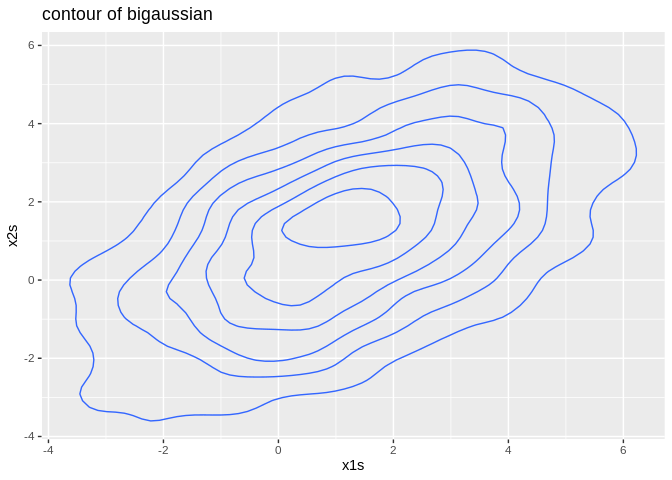
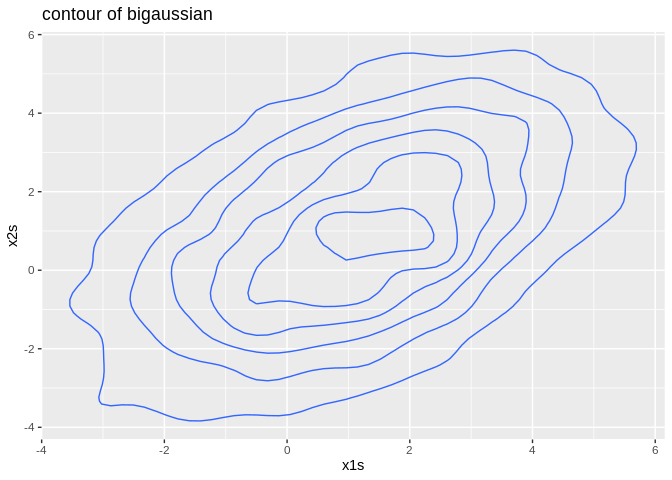
final version

diff --git a/proj2.md b/proj2.md
@@ -6,8 +6,10 @@ Due by 11:59 pm on Friday, December 6th.
 
 ## Question 1
 
-define a density function of bivariate gaussian,a random-walk MCMC
-algorithm is used to simulates observations from this density
+first,define a density function of bivariate gaussian, then a
+random-walk MCMC algorithm is used to simulates observations from this
+density. And there’s a contour plot of this bivariate density function
+in the bottom.
 
 ``` r
 library(ggplot2)
@@ -16,7 +18,8 @@ dbigaussian <- function(x1, x2) {
   sigma <- matrix(c(1, 0.5, 0.5, 1), 2, 2)
   u <- c(1, 1)
   return(as.numeric(exp(
-    -0.5 * t(c(x1, x2) - u) %*% solve(sigma) %*% (c(x1, x2) - u) / (2 * pi) /sqrt(0.75)
+    -0.5 * t(c(x1, x2) - u) %*% solve(sigma) %*% (c(x1, x2) - u) / (2 * pi) /
+      sqrt(0.75)
   )))
 }
 n <- 10000 #number of samples to draw
@@ -50,9 +53,9 @@ ggplot(df, aes(x = x1s, y = x2s)) +
 
 ### 2.1
 
-variance of asmple is 1.132592,variance of Student-t(20) is 1.11, they
-are pretty close,which means those samples are genuine draws from the
-correct Student-t(20) distribution.
+The variance of samples is 1.132592, the variance of Student-t(20) is
+1.11, they are pretty close,which support the statement that those
+samples are genuine draws from the correct Student-t(20) distribution.
 
 ``` r
 set.seed(2)
@@ -74,13 +77,13 @@ for (i in 2:n) {
   }
 }
 ys <- ys[-(1:100)]
-print(var(ys))
+print(var(ys))#variance of sample
 ```
 
     ## [1] 1.132592
 
 ``` r
-print(20 / 18)
+print(20 / 18)#variance of Student-t(20)
 ```
 
     ## [1] 1.111111
@@ -89,9 +92,11 @@ print(20 / 18)
 
 the sample variance(which is 2.758434) is not close nor equal to
 student-t(3) theoretical variance(which is 3), one possible explanation
-is that convergence dosen’t happen before the 10000th sample or happened
-really late, for example, untill the 7000th sample this MCMC converged,
-another explanation is that this MCMC’s convergence is not Student-t(3)
+is that this MCMC’s convergence(statinary distribution) is not
+Student-t(3). Another explanation is that stationary dosen’t happen
+before the 10000th sample or happened really late, for example, untill
+the 7000th sample this MCMC converged, in this situation,the burn-in
+B(which is 100) is too small.
 
 ``` r
 set.seed(2)
@@ -105,7 +110,7 @@ ys <- numeric(n)
 ys[1] <- 0 #initial value
 for (i in 2:n) {
   y <- ys[i - 1] + rnorm(1, 0, 1)
-  a <- min(1, dstudentt(y) / dstudentt(ys[i - 1]))
+  a <-min(1, dstudentt(y) / dstudentt(ys[i - 1]))#implement matropolis hastings method
   if (runif(1) < a) {
     ys[i] <- y
   } else {
@@ -113,13 +118,13 @@ for (i in 2:n) {
   }
 }
 ys <- ys[-(1:100)]
-print(var(ys))
+print(var(ys))#variance of sample
 ```
 
     ## [1] 2.758434
 
 ``` r
-print(3 / 1)
+print(3 / 1)#variance of Student-t(3)
 ```
 
     ## [1] 3
@@ -128,35 +133,195 @@ print(3 / 1)
 
 ``` r
 y = scan("data/eventtimes.csv", sep=",")
-likli<-function(k){
-  n<-100
-  lamda<-2
-  multi<-1
-  for (i in 1:n){
-    multi<-multi*y[i]
-  }
-  sumup<-0
-  for (j in 1:n){
-    sumup<-sumup + (y[i])^k
-  }
-  return(
-    exp(-sumup/(lamda^k))*(multi^(k-1))*(k^n)/(lamda^(n*k))
-  )
-}
 ```
 
 ### 3.1
 
+define the loglikelihood function
+
+``` r
+loglikeli <- function(k){
+  n <- 100
+  lambda <- 2
+  sumup1 <- 0
+  for (i in 1:n){
+    sumup1 <- sumup1 + (y[i]^k)
+  }#calculate the sum of yi with power of k
+  sumup2 <- 0
+  for (j in 1:n){
+    sumup2 <- sumup2 + log(y[j])
+  }#calculate the sum of ln(yi) 
+  return(
+    n*log(k) + (k-1)*sumup2 - (sumup1/lambda^k) - (n*k*log(lambda))#the expression of log likelyhood function of weibull distribution
+  )
+}
+```
+
 ### 3.2
+
+Use optim(), found the maximum of loglikelihood function is reached when
+k equals to 4.588589, which means the most likelihood estimator of k is
+4.588589
+
+``` r
+optim(1,loglikeli,control = list(fnscale = -1),method = "CG")
+```
+
+    ## $par
+    ## [1] 4.588589
+    ## 
+    ## $value
+    ## [1] -60.75909
+    ## 
+    ## $counts
+    ## function gradient 
+    ##       29       10 
+    ## 
+    ## $convergence
+    ## [1] 0
+    ## 
+    ## $message
+    ## NULL
 
 ### 3.3
 
+The probability of there being more than 1.5 weeks until the next time
+that rain occurs is 0.7656637
+
+``` r
+pweibull(1.5,4.59,2,lower.tail = FALSE)
+```
+
+    ## [1] 0.7656637
+
 ### 3.4
+
+Define the posterior function by multiply the likelihood and prior first
+and then logrithmn them all.
+
+``` r
+dposte <- function(k) {
+  alpha <- 1
+  beta <- 1
+  if (k <= 0) {
+    return(-10000)
+  }
+  return(log((
+    beta ^ alpha / gamma(alpha) * k ^ (alpha - 1) * exp(-beta * k)) *exp(loglikeli(k))))
+}
+```
 
 ### 3.5
 
+The mean of Matropolis-Hasting is 4.476628,which is pretty close to the
+MLE, the median is 4.462002, and the standard deviation is 0.3381027
+
+``` r
+set.seed(200)
+n <- 10000 #number of samples to draw
+ys1 <- numeric(n)
+ys1[1] <- 1 #initial value
+for (i in 2:n) {
+  newy <- ys1[i - 1] + rnorm(1, 0, 1)
+  a <-min(1, exp(dposte(newy)) / exp(dposte(ys1[i - 1])))#implement MP MCMC method
+  if (runif(1) < a) {
+    ys1[i] <- newy
+  } else {
+    ys1[i] <- ys1[i - 1]
+  }
+}
+ys1complete <- ys1#preserve 10000 values to draw a plot in 3.7
+ys1 <- ys1[-(1:100)]
+mean(ys1)
+```
+
+    ## [1] 4.476628
+
+``` r
+median(ys1)
+```
+
+    ## [1] 4.462002
+
+``` r
+sd(ys1)
+```
+
+    ## [1] 0.3381027
+
 ### 3.6
+
+First, I calculate the corresponding probability based on 10000
+sampleling values in 3.5,then I calculate the standard deviation of
+those 10000 prediction probabilities.
+
+``` r
+p <- numeric(length(ys1))
+for (i in 1:length(ys1)) {
+  p[i] <- pweibull(1.5, ys1[i], 2, lower.tail = FALSE)
+}
+sd(p)
+```
+
+    ## [1] 0.02032476
 
 ### 3.7
 
+According to the Laplace approximation , I approximated the posterior
+distribution by a normal distribution N(khat,sigma^2)and generated 10000
+samples from this distribution,khat is the value which maximise the
+posterior,sigma^2 equals to 1 divided by the negtive second derivative
+of the log-posterior evaluated at khat
+
+``` r
+optim(1,dposte,control = list(fnscale = -1),,method = "CG",hessian = TRUE)
+```
+
+    ## $par
+    ## [1] 4.470924
+    ## 
+    ## $value
+    ## [1] -65.2886
+    ## 
+    ## $counts
+    ## function gradient 
+    ##       29       10 
+    ## 
+    ## $convergence
+    ## [1] 0
+    ## 
+    ## $message
+    ## NULL
+    ## 
+    ## $hessian
+    ##           [,1]
+    ## [1,] -8.608074
+
+``` r
+khat = 4.470924
+sigma2 = -1/-8.608074
+ys2 <- rnorm(10000,mean = khat,sd = sqrt(sigma2))
+```
+
 ### 3.8
+
+Here’re samples density plots of MCMC (in green) and Laplace(in red).
+
+``` r
+library(ggplot2)
+#create a dataframe that combine samples from MCMC and Laplace approximation
+ys1complete =  data.frame(ys = ys1complete)
+ys1complete$method <- "MCMC"
+ys2 = data.frame(ys = ys2)
+ys2$method <- "Laplace"
+df = rbind(ys1complete, ys2)
+#draw the desity plot
+ggplot(df, aes(ys, color = method)) +
+  geom_density(size = 1) +
+  xlim(3, 6) +
+  labs(title = "density plot of samples from MCMC and Laplace")
+```
+
+    ## Warning: Removed 7 rows containing non-finite values (stat_density).
+
+![](proj2_files/figure-gfm/unnamed-chunk-12-1.png)<!-- -->
